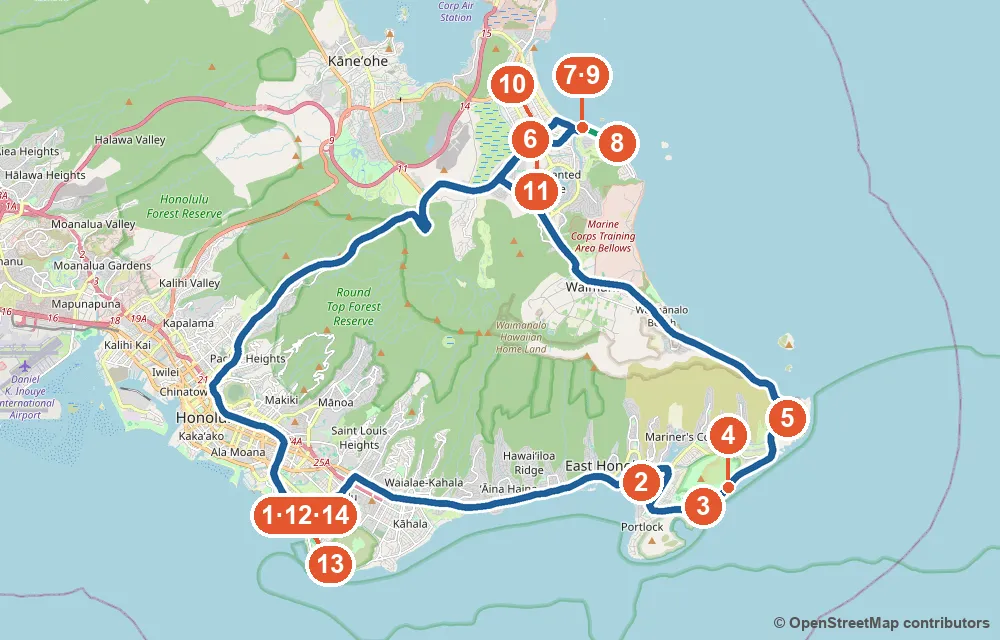
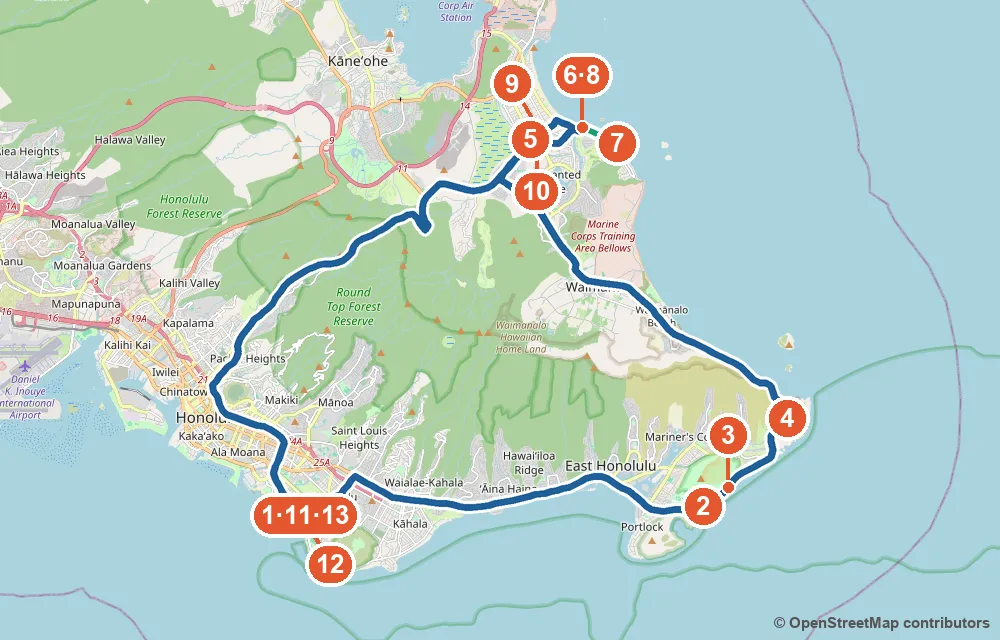
fix: 11/6 route drops Island Brew, zoom range adjusted

diff --git a/index.html b/index.html
@@ -12,7 +12,7 @@
 // GitHub Pages 는 HTML 을 10분 캐시한다(헤더는 못 바꿈) → 열 때마다 version.json 을 캐시 없이 확인해
 // 새 버전이면 주소에 ?v=버전 을 붙여 한 번만 새로 불러온다 (같은 버전으로 이미 시도했으면 멈춤)
 (function () {
-  var BUILD = '67bce47d38';
+  var BUILD = '8e31bd9587';
   try {
     fetch('version.json?t=' + Date.now(), { cache: 'no-store' })
       .then(function (r) { return r.ok ? r.json() : null; })
@@ -375,7 +375,7 @@ footer { max-width: 1100px; margin: 0 auto; padding: 0 16px 48px; color: var(--m
 </ul>
 </div></article><article class="day c2" data-date="11/6"><div class="day-head"><div class="date-badge"><b>11/6</b><span>금요일</span></div><div class="day-title"><h3 id="116-금-동부-해안-카일루아-해안-먼저-저녁은-카일루아">동부 해안 → 카일루아 (해안 먼저, 저녁은 카일루아)</h3></div></div><div class="day-body">
 <p class="wx">🌤 마카푸우 ☔ 14% · 🌡 24~27°C · 💨 평균 초속 8m · 돌풍 19m (북동) / 카일루아 ☔ 29% (밤 35%) · 🌡 24~27°C · 💨 평균 초속 6.2m · 돌풍 15m (북동) — 마카푸우는 이번 주 바람이 가장 세요 → 모자 턱끈 · 카일루아는 지나가는 소나기</p>
-<figure class="routemap"><img src="maps/1106.webp?v=bb832bce98" loading="lazy" width="1000" height="640" alt="11/6 지도"><figcaption><div class="rm-stops"><b>①</b> 메리어트 → <b>②</b> Island Brew 커피 → <b>③</b> 라나이 전망대 → <b>④</b> 할로나 블로홀 → <b>⑤</b> 마카푸우 등대 트레일 → <b>⑥</b> Kalapawai Café → <b>⑦</b> 카일루아 비치파크 → <b>⑧</b> 라니카이 비치 → <b>⑨</b> 카일루아 비치파크 → <b>⑩</b> 마노아 초콜릿 → <b>⑪</b> Whole Foods 카일루아 → <b>⑫</b> 메리어트 → <b>⑬</b> Tiki's → <b>⑭</b> 메리어트</div><div class="rm-meta">🚗 하루 운전 약 69km · 막히지 않으면 약 1시간 41분 · 파란 선 = 차 · 초록 선 = 걷기</div><div class="rm-links">🧭 구글 지도 길찾기 <a href="https://www.google.com/maps/dir/?api=1&amp;origin=Waikiki+Beach+Marriott+Resort+%26+Spa+2552+Kalakaua+Ave&amp;destination=Makapuu+Point+Lighthouse+Trail+parking&amp;travelmode=driving&amp;waypoints=Island+Brew+Coffeehouse+377+Keahole+St+Honolulu%7CLanai+Lookout+Oahu%7CHalona+Blowhole+Lookout" target="_blank" rel="noopener">①→⑤</a><a href="https://www.google.com/maps/dir/?api=1&amp;origin=Makapuu+Point+Lighthouse+Trail+parking&amp;destination=Kailua+Beach+Park&amp;travelmode=driving&amp;waypoints=Kalapawai+Cafe+%26+Deli+750+Kailua+Rd+Kailua" target="_blank" rel="noopener">⑤→⑦</a><a href="https://www.google.com/maps/dir/?api=1&amp;origin=Kailua+Beach+Park&amp;destination=Kailua+Beach+Park&amp;travelmode=walking&amp;waypoints=Lanikai+Beach+Mokulua+Dr+Kailua" target="_blank" rel="noopener">🚶 ⑦→⑨</a><a href="https://www.google.com/maps/dir/?api=1&amp;origin=Kailua+Beach+Park&amp;destination=Waikiki+Beach+Marriott+Resort+%26+Spa+2552+Kalakaua+Ave&amp;travelmode=driving&amp;waypoints=Manoa+Chocolate+Hawaii+333+Uluniu+St+Kailua%7CWhole+Foods+Market+Kailua" target="_blank" rel="noopener">⑨→⑫</a><a href="https://www.google.com/maps/dir/?api=1&amp;origin=Waikiki+Beach+Marriott+Resort+%26+Spa+2552+Kalakaua+Ave&amp;destination=Waikiki+Beach+Marriott+Resort+%26+Spa+2552+Kalakaua+Ave&amp;travelmode=walking&amp;waypoints=Tikis+Grill+%26+Bar+2570+Kalakaua+Ave+Honolulu" target="_blank" rel="noopener">🚶 ⑫→⑭</a></div></figcaption><details class="rm-zoom"><summary>🔍 확대 지도 — 카일루아 (⑥~⑫)</summary><img src="maps/1106-zoom.webp?v=bb832bce98" loading="lazy" width="1000" height="640" alt="11/6 카일루아 확대 지도"></details></figure><div class="gallery"><figure><a href="https://commons.wikimedia.org/wiki/File:Makapuu_point_light.JPG" target="_blank" rel="noopener"><img src="https://upload.wikimedia.org/wikipedia/commons/e/e4/Makapuu_point_light.JPG?utm_source=commons.wikimedia.org&utm_campaign=imageinfo&utm_content=thumbnail_unscaled" alt="마카푸우 등대" loading="lazy" decoding="async"></a><figcaption><b>마카푸우 등대</b><small>© Wikimedia Commons · Public domain</small></figcaption></figure><figure><a href="https://commons.wikimedia.org/wiki/File:Halona_Blowhole_a0002860.jpg" target="_blank" rel="noopener"><img src="https://thumb.wikimedia.org/wikipedia/commons/thumb/3/34/Halona_Blowhole_a0002860.jpg/960px-Halona_Blowhole_a0002860.jpg?utm_source=commons.wikimedia.org&utm_campaign=imageinfo&utm_content=thumbnail" alt="할로나 블로홀" loading="lazy" decoding="async"></a><figcaption><b>할로나 블로홀</b><small>© This file was created by Thomas Tunsch.  · CC BY-SA 4.0</small></figcaption></figure><figure><a href="https://commons.wikimedia.org/wiki/File:Lanikai_Beach,_Hawaii.JPG" target="_blank" rel="noopener"><img src="https://thumb.wikimedia.org/wikipedia/commons/thumb/1/1f/Lanikai_Beach%2C_Hawaii.JPG/960px-Lanikai_Beach%2C_Hawaii.JPG?utm_source=commons.wikimedia.org&utm_campaign=imageinfo&utm_content=thumbnail" alt="라니카이 비치" loading="lazy" decoding="async"></a><figcaption><b>라니카이 비치</b><small>© Cristo Vlahos · CC BY-SA 3.0</small></figcaption></figure><figure><a href="https://commons.wikimedia.org/wiki/File:Kailua_Beach_Park_-_Oahu_-_Hawaii.jpg" target="_blank" rel="noopener"><img src="https://thumb.wikimedia.org/wikipedia/commons/thumb/3/36/Kailua_Beach_Park_-_Oahu_-_Hawaii.jpg/960px-Kailua_Beach_Park_-_Oahu_-_Hawaii.jpg?utm_source=commons.wikimedia.org&utm_campaign=imageinfo&utm_content=thumbnail" alt="카일루아 비치" loading="lazy" decoding="async"></a><figcaption><b>카일루아 비치</b><small>© Tony Webster · CC BY 2.0</small></figcaption></figure></div><ol class="tl"><li><div class="t">08:00–08:50</div><div class="c"><div class="place">메리어트</div><div class="what">조식 (포함)</div></div></li><li><div class="t">09:00</div><div class="c"><div class="place">호텔 출발</div><div class="what"><strong>짐·귀중품은 호텔에서 미리 트렁크에</strong></div></div></li><li><div class="t">09:50–10:10</div><div class="c"><div class="place">라나이 룩아웃 → 할로나 블로홀</div><div class="what">절벽·블로홀 사진, 각 10분 · <strong>전망대 아래 바위로 내려가지 않기</strong> (파도 사고)</div><div class="park">🅿 무료 소형 (15대 / 20~25대)</div></div></li><li><div class="t">10:20–12:05</div><div class="c"><div class="place">🥾 <a href="https://www.google.com/maps/search/?api=1&query=Makapuu+Point+Lighthouse+Trail" target="_blank" rel="noopener"><strong>마카푸우 등대 트레일</strong></a></div><div class="what">한낮 전이라 <strong>물·모자 필수</strong> · 왕복 3.2km 포장길 · +150m · 약 2시간 · <strong>그늘·화장실·식수 없음</strong> · 고래 시즌 시작</div><div class="park">🅿 무료, 07:00 개방, 협소</div><figure class="routemap"><img src="maps/hike-makapuu.webp?v=3348580688" loading="lazy" width="1000" height="640" alt="하이킹: 마카푸우 등대 지도"><figcaption><div class="rm-stops"><b>🥾 마카푸우 등대 코스</b> · <b>①</b> 주차장·입구 → <b>②</b> 정상 전망대 (등대 위)</div><div class="rm-meta">왕복 3.2km · +150m · 포장길 · 그늘·화장실 없음 · 초록 선 = 걷는 길 (대략)</div><div class="rm-links">🧭 구글 지도 <a href="https://www.google.com/maps/search/?api=1&amp;query=21.30456,-157.65677" target="_blank" rel="noopener">📍 입구</a></div></figcaption></figure></div></li><li><div class="t">12:05–12:35</div><div class="c"><div class="place">와이마날로 경유 → 카일루아</div><div class="what">해안 드라이브</div></div></li><li><div class="t">12:35–13:30</div><div class="c"><div class="place"><a href="https://www.google.com/maps/search/?api=1&query=Kalapawai+Cafe+%26+Deli+750+Kailua+Rd+Kailua" target="_blank" rel="noopener"><strong>Kalapawai Café &amp; Deli</strong></a> (06–21)</div><div class="what">점심 — 샌드위치·플랫브레드 · 🍴 <strong>주문: 후리카케 생선 샌드위치·포케볼</strong> (비치 버거는 피하기)</div><div class="park">🅿 자체 lot (미확인)</div></div></li><li><div class="t">13:45–15:30</div><div class="c"><div class="place">카일루아 비치파크 → 라니카이 비치 (도보 15~20분)</div><div class="what">부모님: 해변 산책 + <strong>Island Snow</strong> 빙수 · (선택) 🥾 아들들 <strong>라니카이 필박스</strong> — 비치파크에서 왕복 포함 약 2시간, 초반 로프 급경사</div><div class="park">🅿 <strong>카일루아 비치파크 무료</strong> — 라니카이 Mokulua Dr <strong>종일 주차금지 계획</strong> (시정부 단계별 시행 — 7/1 시행 여부는 확인 불가, 현장 표지판 우선)</div><figure class="routemap"><img src="maps/hike-lanikai.webp?v=a96e10a856" loading="lazy" width="1000" height="640" alt="하이킹: 라니카이 필박스 지도"><figcaption><div class="rm-stops"><b>🥾 라니카이 필박스 코스</b> · <b>①</b> 카일루아 비치파크 → <b>②</b> 입구 (Kaelepulu Dr) → <b>③</b> 두 번째 필박스</div><div class="rm-meta">입구까지 걸어서 15분 + 초반 로프 급경사 흙길 · 난간 없음 · 초록 선 = 걷는 길 (대략)</div><div class="rm-links">🧭 구글 지도 <a href="https://www.google.com/maps/search/?api=1&amp;query=21.397396,-157.7272179" target="_blank" rel="noopener">📍 입구</a></div></figcaption></figure></div></li><li><div class="t">15:45–16:40</div><div class="c"><div class="place">🛍 <strong>카일루아 쇼핑</strong></div><div class="what">🍫 <strong>마노아 초콜릿</strong> (카페 금 08–19 · 시식·기념품 시간은 방문 전 확인 · 가이드북 · 구글 리뷰 1,509 ★4.8) → Whole Foods Kailua (07–22) → (시간 남으면) 카일루아 타운 부티크 · <strong>16:45 와이키키로 출발</strong></div><div class="park">🅿 매장별 무료 lot</div></div></li><li><div class="t">16:45–17:40</div><div class="c"><div class="place">와이키키로 (팔리 하이웨이 경유)</div><div class="what">팔리 전망대는 <strong>11/10 아침에 들러요</strong> · 호텔에서 잠깐 쉬기</div></div></li><li><div class="t">18:00–19:30</div><div class="c"><div class="place">🗿 <strong>Tiki's Grill &amp; Bar</strong> (메리어트 바로 옆 2570 Kalakaua 2층 · ☎ 808-923-8454)</div><div class="what">저녁 — <strong>해변 전망 테라스·라이브 음악</strong> (구글 16,187 ★4.7 — 이 동네 최고 인기) · 🍴 <strong>주문: 구아바 립 · 아히 포케 원톤 슬라이더 · 생선 요리</strong> (마카다미아 크러스트 생선·코코넛 새우는 11/8과 겹침) · <strong>OpenTable 18:00 예약 — 일몰 17:54, 테라스 자리 요청</strong> · <del>Olive Tree</del>(리뷰 508)는 인기 부족으로 다시 교체 (11/5)</div><div class="park">🅿 호텔 옆 — 도보 1분</div></div></li></ol>
+<figure class="routemap"><img src="maps/1106.webp?v=c429f73d81" loading="lazy" width="1000" height="640" alt="11/6 지도"><figcaption><div class="rm-stops"><b>①</b> 메리어트 → <b>②</b> 라나이 전망대 → <b>③</b> 할로나 블로홀 → <b>④</b> 마카푸우 등대 트레일 → <b>⑤</b> Kalapawai Café → <b>⑥</b> 카일루아 비치파크 → <b>⑦</b> 라니카이 비치 → <b>⑧</b> 카일루아 비치파크 → <b>⑨</b> 마노아 초콜릿 → <b>⑩</b> Whole Foods 카일루아 → <b>⑪</b> 메리어트 → <b>⑫</b> Tiki's → <b>⑬</b> 메리어트</div><div class="rm-meta">🚗 하루 운전 약 66km · 막히지 않으면 약 1시간 36분 · 파란 선 = 차 · 초록 선 = 걷기</div><div class="rm-links">🧭 구글 지도 길찾기 <a href="https://www.google.com/maps/dir/?api=1&amp;origin=Waikiki+Beach+Marriott+Resort+%26+Spa+2552+Kalakaua+Ave&amp;destination=Kalapawai+Cafe+%26+Deli+750+Kailua+Rd+Kailua&amp;travelmode=driving&amp;waypoints=Lanai+Lookout+Oahu%7CHalona+Blowhole+Lookout%7CMakapuu+Point+Lighthouse+Trail+parking" target="_blank" rel="noopener">①→⑤</a><a href="https://www.google.com/maps/dir/?api=1&amp;origin=Kalapawai+Cafe+%26+Deli+750+Kailua+Rd+Kailua&amp;destination=Kailua+Beach+Park&amp;travelmode=driving" target="_blank" rel="noopener">⑤→⑥</a><a href="https://www.google.com/maps/dir/?api=1&amp;origin=Kailua+Beach+Park&amp;destination=Kailua+Beach+Park&amp;travelmode=walking&amp;waypoints=Lanikai+Beach+Mokulua+Dr+Kailua" target="_blank" rel="noopener">🚶 ⑥→⑧</a><a href="https://www.google.com/maps/dir/?api=1&amp;origin=Kailua+Beach+Park&amp;destination=Waikiki+Beach+Marriott+Resort+%26+Spa+2552+Kalakaua+Ave&amp;travelmode=driving&amp;waypoints=Manoa+Chocolate+Hawaii+333+Uluniu+St+Kailua%7CWhole+Foods+Market+Kailua" target="_blank" rel="noopener">⑧→⑪</a><a href="https://www.google.com/maps/dir/?api=1&amp;origin=Waikiki+Beach+Marriott+Resort+%26+Spa+2552+Kalakaua+Ave&amp;destination=Waikiki+Beach+Marriott+Resort+%26+Spa+2552+Kalakaua+Ave&amp;travelmode=walking&amp;waypoints=Tikis+Grill+%26+Bar+2570+Kalakaua+Ave+Honolulu" target="_blank" rel="noopener">🚶 ⑪→⑬</a></div></figcaption><details class="rm-zoom"><summary>🔍 확대 지도 — 카일루아 (⑤~⑪)</summary><img src="maps/1106-zoom.webp?v=c429f73d81" loading="lazy" width="1000" height="640" alt="11/6 카일루아 확대 지도"></details></figure><div class="gallery"><figure><a href="https://commons.wikimedia.org/wiki/File:Makapuu_point_light.JPG" target="_blank" rel="noopener"><img src="https://upload.wikimedia.org/wikipedia/commons/e/e4/Makapuu_point_light.JPG?utm_source=commons.wikimedia.org&utm_campaign=imageinfo&utm_content=thumbnail_unscaled" alt="마카푸우 등대" loading="lazy" decoding="async"></a><figcaption><b>마카푸우 등대</b><small>© Wikimedia Commons · Public domain</small></figcaption></figure><figure><a href="https://commons.wikimedia.org/wiki/File:Halona_Blowhole_a0002860.jpg" target="_blank" rel="noopener"><img src="https://thumb.wikimedia.org/wikipedia/commons/thumb/3/34/Halona_Blowhole_a0002860.jpg/960px-Halona_Blowhole_a0002860.jpg?utm_source=commons.wikimedia.org&utm_campaign=imageinfo&utm_content=thumbnail" alt="할로나 블로홀" loading="lazy" decoding="async"></a><figcaption><b>할로나 블로홀</b><small>© This file was created by Thomas Tunsch.  · CC BY-SA 4.0</small></figcaption></figure><figure><a href="https://commons.wikimedia.org/wiki/File:Lanikai_Beach,_Hawaii.JPG" target="_blank" rel="noopener"><img src="https://thumb.wikimedia.org/wikipedia/commons/thumb/1/1f/Lanikai_Beach%2C_Hawaii.JPG/960px-Lanikai_Beach%2C_Hawaii.JPG?utm_source=commons.wikimedia.org&utm_campaign=imageinfo&utm_content=thumbnail" alt="라니카이 비치" loading="lazy" decoding="async"></a><figcaption><b>라니카이 비치</b><small>© Cristo Vlahos · CC BY-SA 3.0</small></figcaption></figure><figure><a href="https://commons.wikimedia.org/wiki/File:Kailua_Beach_Park_-_Oahu_-_Hawaii.jpg" target="_blank" rel="noopener"><img src="https://thumb.wikimedia.org/wikipedia/commons/thumb/3/36/Kailua_Beach_Park_-_Oahu_-_Hawaii.jpg/960px-Kailua_Beach_Park_-_Oahu_-_Hawaii.jpg?utm_source=commons.wikimedia.org&utm_campaign=imageinfo&utm_content=thumbnail" alt="카일루아 비치" loading="lazy" decoding="async"></a><figcaption><b>카일루아 비치</b><small>© Tony Webster · CC BY 2.0</small></figcaption></figure></div><ol class="tl"><li><div class="t">08:00–08:50</div><div class="c"><div class="place">메리어트</div><div class="what">조식 (포함)</div></div></li><li><div class="t">09:00</div><div class="c"><div class="place">호텔 출발</div><div class="what"><strong>짐·귀중품은 호텔에서 미리 트렁크에</strong></div></div></li><li><div class="t">09:50–10:10</div><div class="c"><div class="place">라나이 룩아웃 → 할로나 블로홀</div><div class="what">절벽·블로홀 사진, 각 10분 · <strong>전망대 아래 바위로 내려가지 않기</strong> (파도 사고)</div><div class="park">🅿 무료 소형 (15대 / 20~25대)</div></div></li><li><div class="t">10:20–12:05</div><div class="c"><div class="place">🥾 <a href="https://www.google.com/maps/search/?api=1&query=Makapuu+Point+Lighthouse+Trail" target="_blank" rel="noopener"><strong>마카푸우 등대 트레일</strong></a></div><div class="what">한낮 전이라 <strong>물·모자 필수</strong> · 왕복 3.2km 포장길 · +150m · 약 2시간 · <strong>그늘·화장실·식수 없음</strong> · 고래 시즌 시작</div><div class="park">🅿 무료, 07:00 개방, 협소</div><figure class="routemap"><img src="maps/hike-makapuu.webp?v=3348580688" loading="lazy" width="1000" height="640" alt="하이킹: 마카푸우 등대 지도"><figcaption><div class="rm-stops"><b>🥾 마카푸우 등대 코스</b> · <b>①</b> 주차장·입구 → <b>②</b> 정상 전망대 (등대 위)</div><div class="rm-meta">왕복 3.2km · +150m · 포장길 · 그늘·화장실 없음 · 초록 선 = 걷는 길 (대략)</div><div class="rm-links">🧭 구글 지도 <a href="https://www.google.com/maps/search/?api=1&amp;query=21.30456,-157.65677" target="_blank" rel="noopener">📍 입구</a></div></figcaption></figure></div></li><li><div class="t">12:05–12:35</div><div class="c"><div class="place">와이마날로 경유 → 카일루아</div><div class="what">해안 드라이브</div></div></li><li><div class="t">12:35–13:30</div><div class="c"><div class="place"><a href="https://www.google.com/maps/search/?api=1&query=Kalapawai+Cafe+%26+Deli+750+Kailua+Rd+Kailua" target="_blank" rel="noopener"><strong>Kalapawai Café &amp; Deli</strong></a> (06–21)</div><div class="what">점심 — 샌드위치·플랫브레드 · 🍴 <strong>주문: 후리카케 생선 샌드위치·포케볼</strong> (비치 버거는 피하기)</div><div class="park">🅿 자체 lot (미확인)</div></div></li><li><div class="t">13:45–15:30</div><div class="c"><div class="place">카일루아 비치파크 → 라니카이 비치 (도보 15~20분)</div><div class="what">부모님: 해변 산책 + <strong>Island Snow</strong> 빙수 · (선택) 🥾 아들들 <strong>라니카이 필박스</strong> — 비치파크에서 왕복 포함 약 2시간, 초반 로프 급경사</div><div class="park">🅿 <strong>카일루아 비치파크 무료</strong> — 라니카이 Mokulua Dr <strong>종일 주차금지 계획</strong> (시정부 단계별 시행 — 7/1 시행 여부는 확인 불가, 현장 표지판 우선)</div><figure class="routemap"><img src="maps/hike-lanikai.webp?v=a96e10a856" loading="lazy" width="1000" height="640" alt="하이킹: 라니카이 필박스 지도"><figcaption><div class="rm-stops"><b>🥾 라니카이 필박스 코스</b> · <b>①</b> 카일루아 비치파크 → <b>②</b> 입구 (Kaelepulu Dr) → <b>③</b> 두 번째 필박스</div><div class="rm-meta">입구까지 걸어서 15분 + 초반 로프 급경사 흙길 · 난간 없음 · 초록 선 = 걷는 길 (대략)</div><div class="rm-links">🧭 구글 지도 <a href="https://www.google.com/maps/search/?api=1&amp;query=21.397396,-157.7272179" target="_blank" rel="noopener">📍 입구</a></div></figcaption></figure></div></li><li><div class="t">15:45–16:40</div><div class="c"><div class="place">🛍 <strong>카일루아 쇼핑</strong></div><div class="what">🍫 <strong>마노아 초콜릿</strong> (카페 금 08–19 · 시식·기념품 시간은 방문 전 확인 · 가이드북 · 구글 리뷰 1,509 ★4.8) → Whole Foods Kailua (07–22) → (시간 남으면) 카일루아 타운 부티크 · <strong>16:45 와이키키로 출발</strong></div><div class="park">🅿 매장별 무료 lot</div></div></li><li><div class="t">16:45–17:40</div><div class="c"><div class="place">와이키키로 (팔리 하이웨이 경유)</div><div class="what">팔리 전망대는 <strong>11/10 아침에 들러요</strong> · 호텔에서 잠깐 쉬기</div></div></li><li><div class="t">18:00–19:30</div><div class="c"><div class="place">🗿 <strong>Tiki's Grill &amp; Bar</strong> (메리어트 바로 옆 2570 Kalakaua 2층 · ☎ 808-923-8454)</div><div class="what">저녁 — <strong>해변 전망 테라스·라이브 음악</strong> (구글 16,187 ★4.7 — 이 동네 최고 인기) · 🍴 <strong>주문: 구아바 립 · 아히 포케 원톤 슬라이더 · 생선 요리</strong> (마카다미아 크러스트 생선·코코넛 새우는 11/8과 겹침) · <strong>OpenTable 18:00 예약 — 일몰 17:54, 테라스 자리 요청</strong> · <del>Olive Tree</del>(리뷰 508)는 인기 부족으로 다시 교체 (11/5)</div><div class="park">🅿 호텔 옆 — 도보 1분</div></div></li></ol>
 
 
 
@@ -2243,7 +2243,7 @@ footer { max-width: 1100px; margin: 0 auto; padding: 0 16px 48px; color: var(--m
 ☐ 위탁 수하물 23kg 초과 주의 — 귀국 때 아울렛 쇼핑 짐도
 ☐ 액체류 100ml 이하·투명 지퍼백 (총 1L) · 보조배터리는 기내 가방에</pre></div></section>
 </main>
-<footer>업데이트 2026-11-06 14:25 KST · 영업시간·주차는 2026-11-02 웹 조사 + Codex 검수 기준입니다. (미확인) 항목은 방문 전날 구글맵·전화로 다시 확인하세요. 체크 표시는 이 기기에만 저장됩니다. 사진: Wikimedia Commons 자유 이용 사진 — 사진을 누르면 저작자·라이선스 원문으로 이동합니다.</footer>
+<footer>업데이트 2026-11-06 14:26 KST · 영업시간·주차는 2026-11-02 웹 조사 + Codex 검수 기준입니다. (미확인) 항목은 방문 전날 구글맵·전화로 다시 확인하세요. 체크 표시는 이 기기에만 저장됩니다. 사진: Wikimedia Commons 자유 이용 사진 — 사진을 누르면 저작자·라이선스 원문으로 이동합니다.</footer>
 <button class="top-btn" id="topBtn" aria-label="맨 위로">↑</button>
 <script>
 (function () {
